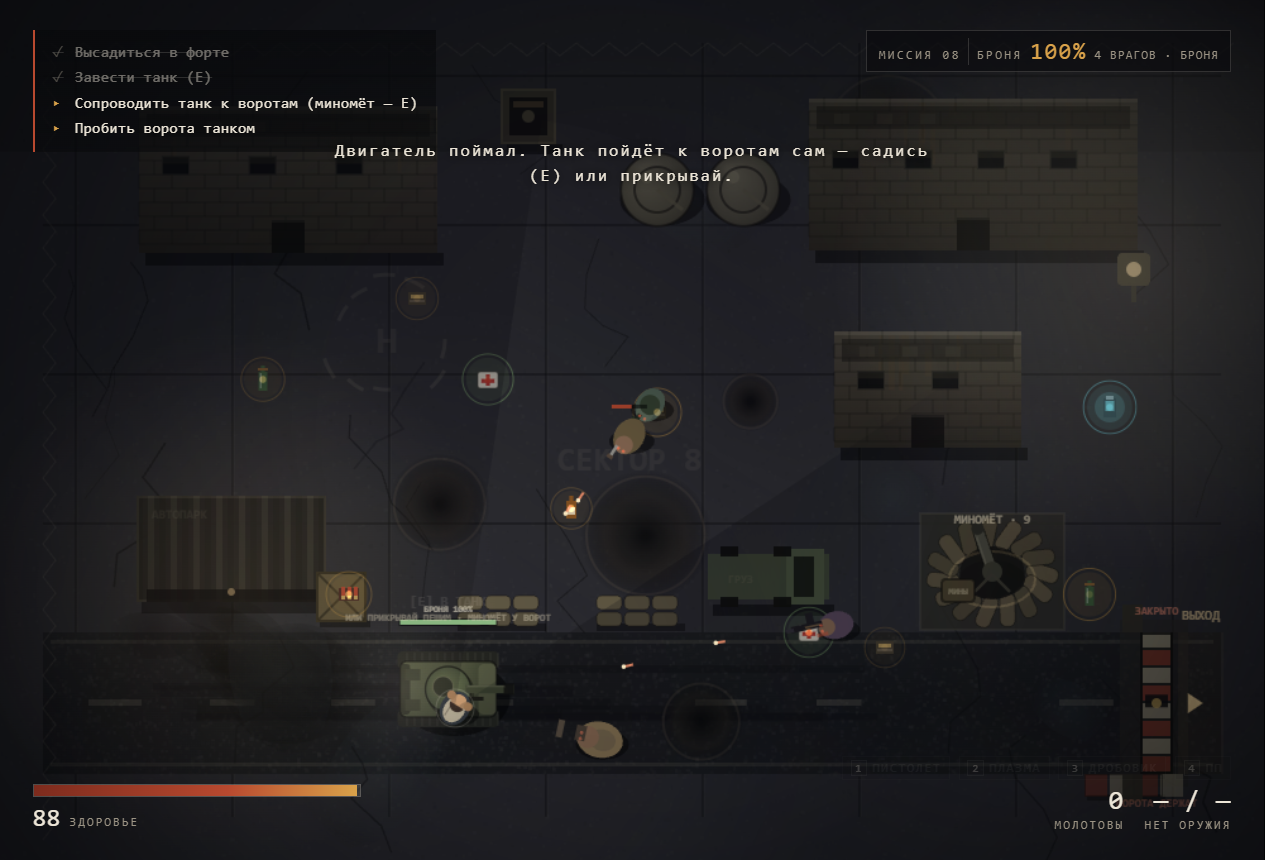
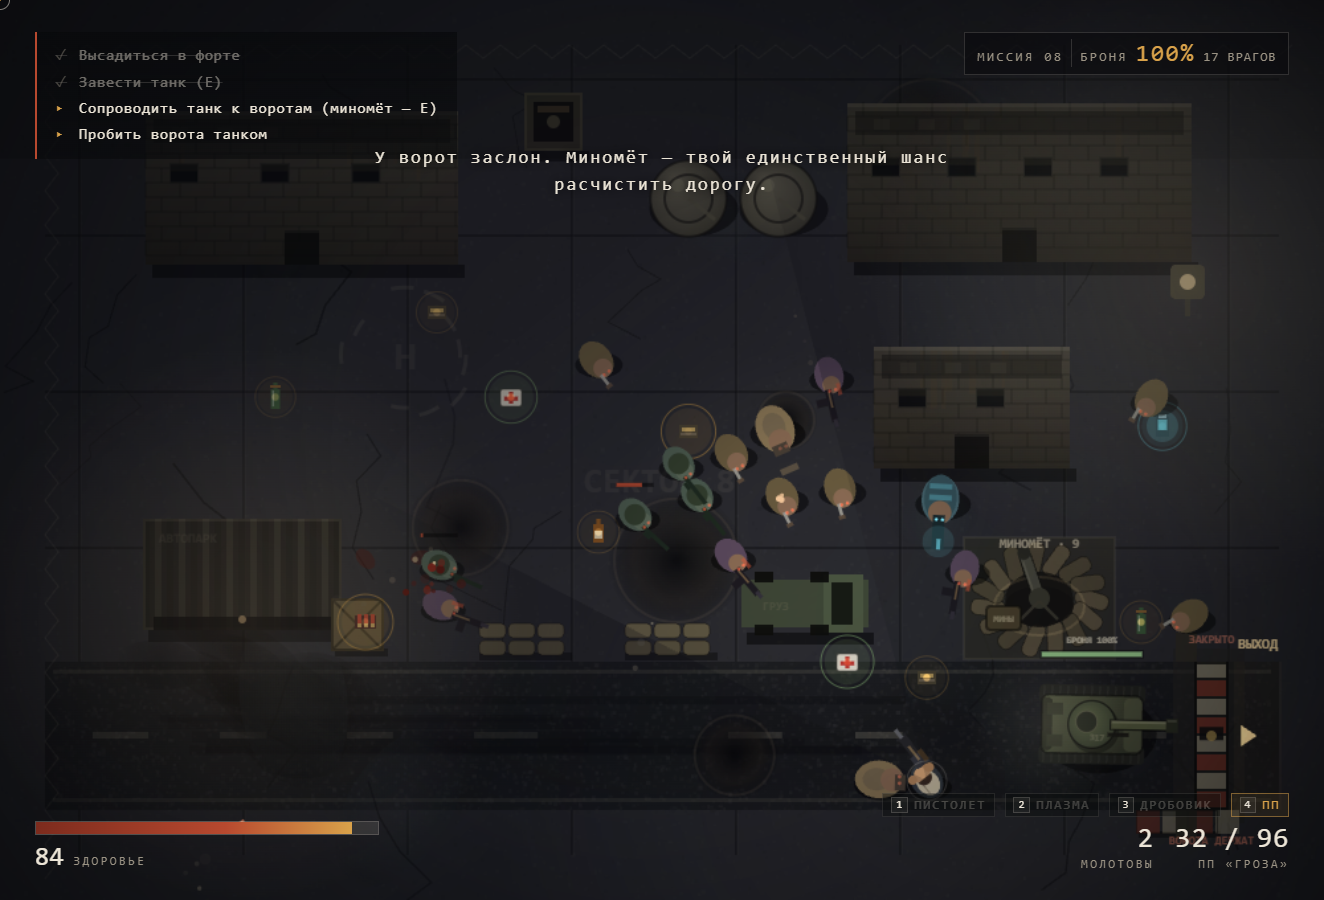
Форт: ствол танка читаемее, подписи поверх затемнения, HUD брони без дубля

diff --git a/index.html b/index.html
@@ -8002,7 +8002,7 @@ function updateWaveHud() {
     if (state.riding) { els.waveLeft.textContent = 'ЗА РЫЧАГАМИ'; return; }
     const left = enemies.length + state.waveQueue.length;
     els.waveLeft.textContent = state.doorsOpen ? 'ДОРОГА ОТКРЫТА'
-      : (left > 0 ? left + ' ВРАГОВ · БРОНЯ' : 'К ВОРОТАМ');
+      : (left > 0 ? left + ' ВРАГОВ' : 'К ВОРОТАМ');
     return;
   }
   if (level.id === 'roof') {
